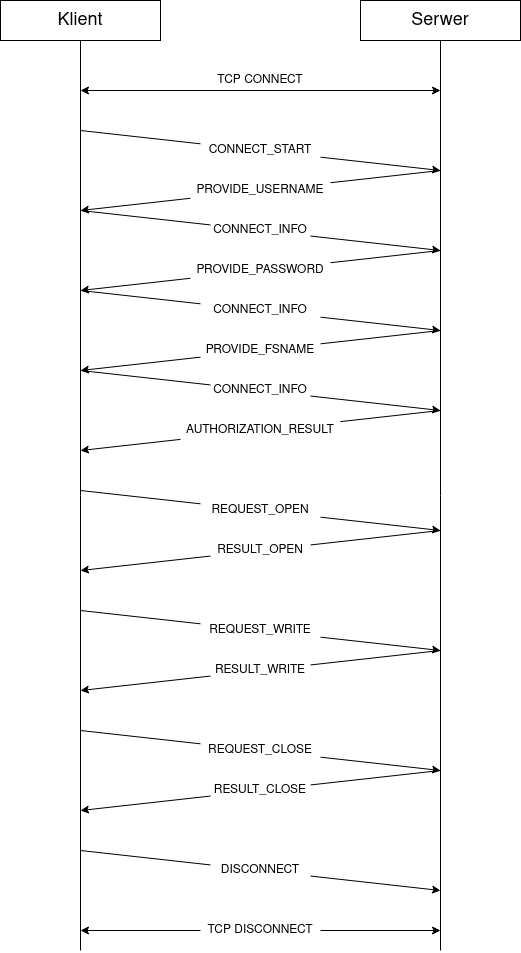
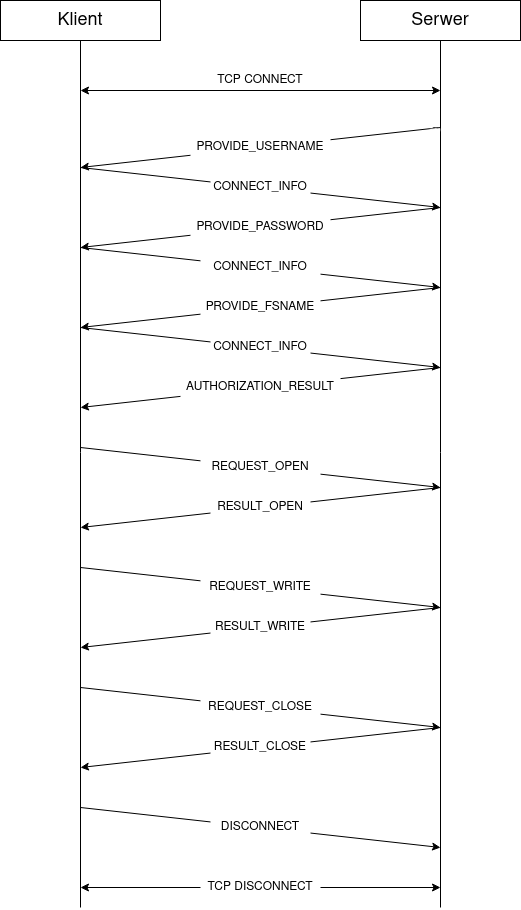
Readme tweak

diff --git a/README.md b/README.md
@@ -91,11 +91,6 @@ Komunikacja między klientem a serwerem odbywa się poprzez krótkie, synchronic
 ### Struktury reprezentujące pojedyńcze komunikaty:
 Klienta:
 ```
-struct CMSGConnectStart {
-    uint8_t code; // CONNECT_START
-}
-```
-```
 struct CMSGConnectInfoUsername {
     uint8_t code; // CONNECT_INFO_USERNAME
     uint64_t username_size;
@@ -274,8 +269,9 @@ MSGUnexpectedError {
 Pierwszy bajt każdego rodzaju komunikatu jest nagłówkiem identyfikującym jednoznacznie typ odbieranego komunikatu.
 
 ### Spodziewane odpowiedzi na komunikaty
-`CMSGConnectStart -> SMSGProvideUsername | SMSGRejected`  
-`CMSGConnectInfo -> SMSGProvidePassword | SMSGProvideFSName | SMSGAuthorizationResult`  
+`CMSGConnectInfoUsername -> SMSGProvidePassword`
+`CMSGConnectInfoPassword -> SMSGProvideFSName | SMSGAuthorizationFailed`
+`CMSGConnectInfoFSName -> SMSGProvidePassword | SMSGAuthorizationFailed | SMSGAuthorizationOk`
 `CMSGRequestOpen -> SMSGResultOpen`  
 `CMSGRequestClose -> SMSGResultClose`  
 `CMSGRequestRead -> SMSGResultRead`  
